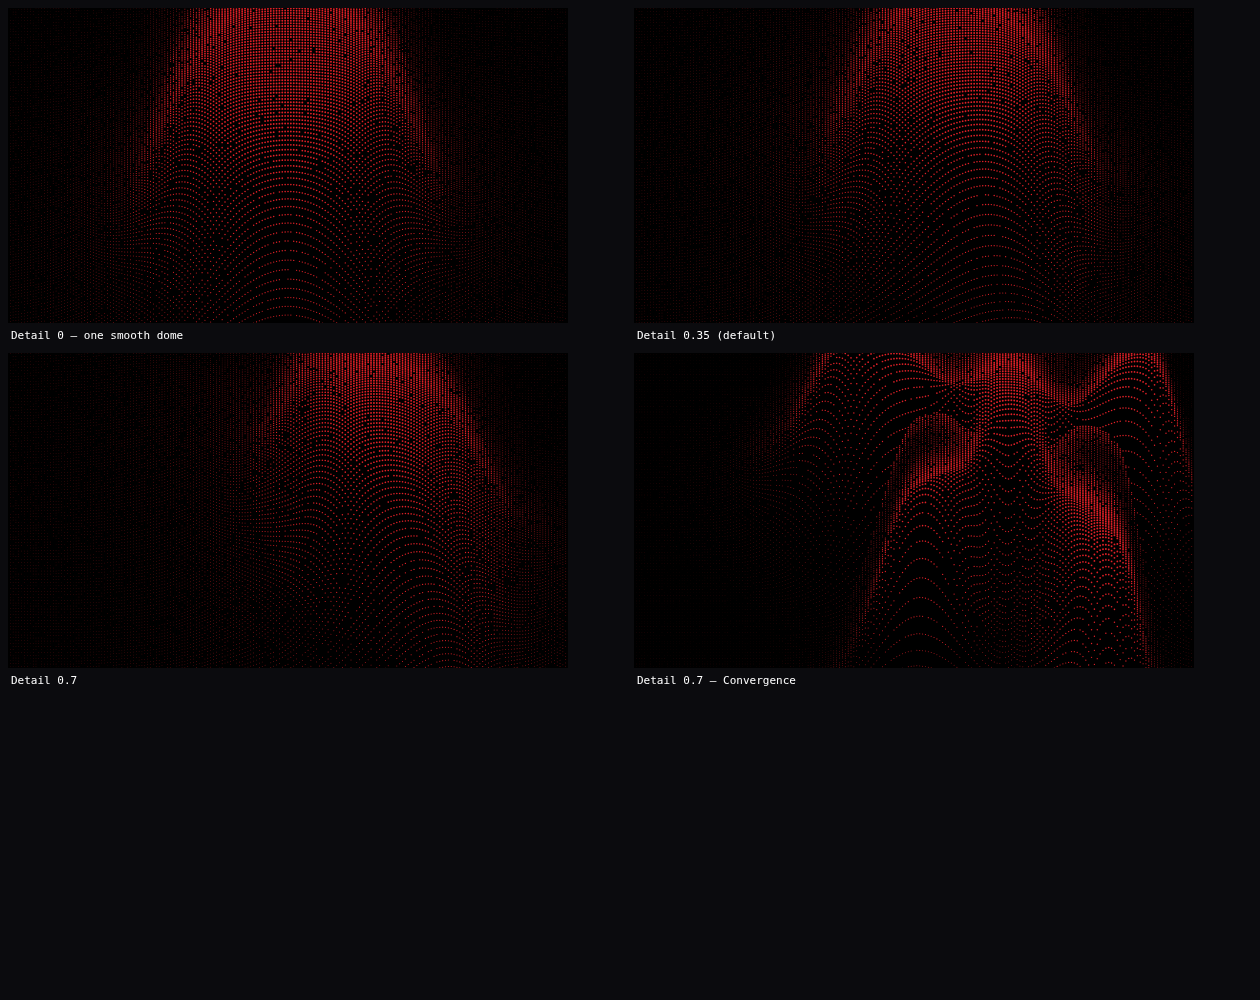
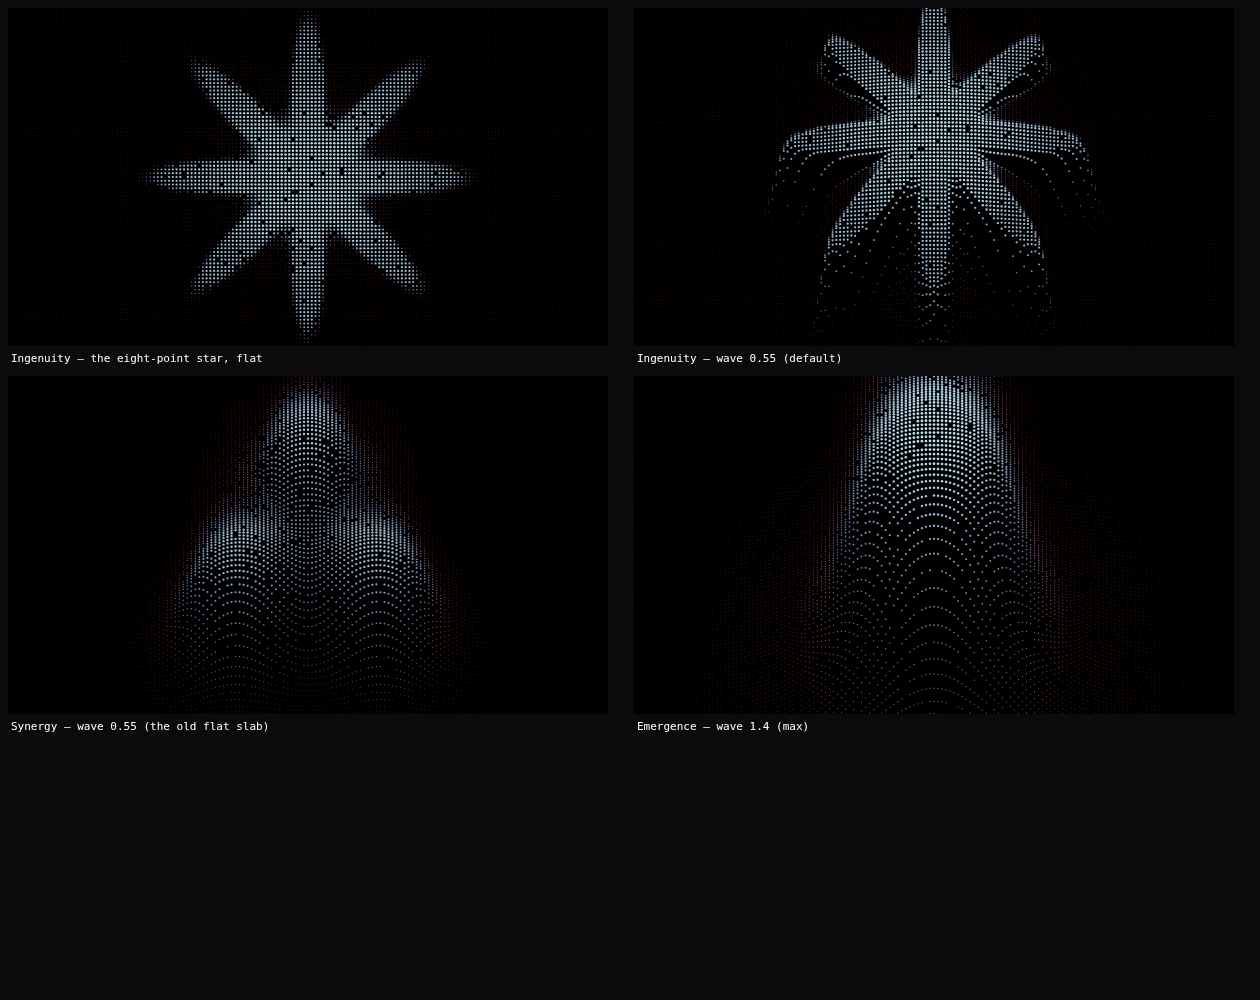
Take the Detail weather back off
The uploaded index.html is byte-identical across thirteen commits, so it names
no version by itself; the two faults called out do. The only builds carrying
both the flat tops and the old star are the wave builds, and 9ac6f5a is the one
named earlier, which is what the tree already sat on. The one thing on top of
it that had not been asked for on this pass was Detail, so that is removed —
the noise, the slider and its default.

What remains against 9ac6f5a is exactly the two fixes and nothing else:

- Flattening: the soft ceiling on all twelve presets, and crowded rows held
  apart rather than dropped. Worst plateau 0.0%, from 32.8% on Ingenuity.
- Star: Ingenuity as the eight-point star, points on the axes and diagonals,
  valley-to-tip 0.42 against the reference's 0.42.

Detail is still in the history at 64b92ab if it is wanted back.

Verified from file:// with no build: all twelve cycle, both repeat modes, flat
tops gone up to maximum wave height, and PNG/SVG/JSON export, no console
errors.

diff --git a/js/generate.js b/js/generate.js
@@ -28,7 +28,6 @@ var DG = window.DG || (window.DG = {});
     waveHeight: 0.55,     // how far the form displaces its rows
     waveMode: 'ridge',    // ridge (rows ride over the surface) | bulge (rows open around it)
     hideBehind: true,     // hold crowded rows apart rather than dropping them
-    detail: 0.35,         // folds weather into the form: swirls, saddles, nested bands
     dotScale: 0.72,       // largest dot as a fraction of the point spacing
     sizeVariation: 0.85,  // extent of the difference between small and large dots
     contrast: 1.0,        // gamma on the height before it becomes size
@@ -47,27 +46,6 @@ var DG = window.DG || (window.DG = {});
   };
 
   var FLOW_STEPS = 6;
-
-  /* Smooth 2D value noise, for giving a form its own weather. */
-  function noise2(x, y, seed) {
-    var x0 = Math.floor(x);
-    var y0 = Math.floor(y);
-    var fx = x - x0;
-    var fy = y - y0;
-    var sx = fx * fx * (3 - 2 * fx);
-    var sy = fy * fy * (3 - 2 * fy);
-    var a = hash2(x0, y0, seed);
-    var b = hash2(x0 + 1, y0, seed);
-    var c = hash2(x0, y0 + 1, seed);
-    var d = hash2(x0 + 1, y0 + 1, seed);
-    var top = a + (b - a) * sx;
-    return top + (c + (d - c) * sx - top) * sy;
-  }
-
-  /* Two octaves, centred on zero. */
-  function fbm(x, y, seed) {
-    return (noise2(x, y, seed) - 0.5) + (noise2(x * 2.3, y * 2.3, seed + 77) - 0.5) * 0.5;
-  }
 
   /* Deterministic per-point noise, so a given seed always redraws identically. */
   function hash2(i, j, seed) {
@@ -157,35 +135,15 @@ var DG = window.DG || (window.DG = {});
       }
     }
 
-    var detail = Math.max(0, p.detail);
-
-    /*
-     * The form with its own weather. Smooth noise bends the reading point
-     * around, which swings the form's contours into swirls and saddles, and a
-     * little of the same noise is folded into the height so a single smooth
-     * dome breaks into nested bands. The rows then ride all of it, so the wave
-     * carries that structure while the dots stay on their grid.
-     */
-    function shapeAt(u, v) {
-      if (detail <= 0) return preset.density(u, v);
-      var nx = u * 0.62;
-      var ny = v * 0.62;
-      var wu = u + detail * 1.15 * fbm(nx, ny, p.seed);
-      var wv = v + detail * 1.15 * fbm(nx + 5.2, ny + 1.3, p.seed + 913);
-      var base = preset.density(wu, wv);
-      var grain = 0.5 + 0.5 * fbm(u * 1.45, v * 1.45, p.seed + 401);
-      return base * (1 - 0.3 * detail) + 0.3 * detail * grain * base * 2.2;
-    }
-
     /* The form, once or as the strongest of its overlapping copies. */
     function formAt(fx, fy) {
-      if (!copies) return shapeAt(fx, fy);
+      if (!copies) return preset.density(fx, fy);
       var best = 0;
       for (var c = 0; c < copies.length; c++) {
         var k = copies[c];
         var dx = fx - k.x;
         var dy = fy - k.y;
-        var d = shapeAt(
+        var d = preset.density(
           (dx * k.cos + dy * k.sin) / k.s,
           (-dx * k.sin + dy * k.cos) / k.s
         );

diff --git a/js/app.js b/js/app.js
@@ -159,12 +159,6 @@ var DG = window.DG || (window.DG = {});
                   onChange=${function (e) { set({ hideBehind: e.target.checked }); }} />
                 <span>Keep crowded rows apart</span>
               </label>
-              <div class="row">
-                <${DG.Slider} label="Detail" value=${params.detail} min=${0} max=${1}
-                  onChange=${function (v) { set({ detail: v }); }} />
-                <button type="button" class="ghost"
-                  onClick=${function () { set({ seed: 1 + Math.floor(Math.random() * 999) }); }}>Shuffle</button>
-              </div>
               <${DG.Slider} label="Pattern scale" value=${params.patternScale} min=${0.15} max=${2.5}
                 onChange=${function (v) { set({ patternScale: v }); }} />
               <${DG.Choice} label="Repeat the form" value=${params.repeat}
